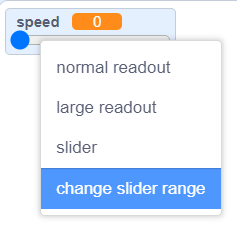
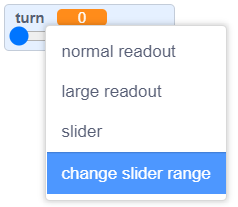
Changed examples to use turn instead of speed

Changed region(s): [[0.0, 0.0, 1.0, 0.9855], [0.2363, 0.4058, 0.6793, 0.5217], [0.2363, 0.5797, 0.443, 0.6957]]

diff --git a/en/step_6.md b/en/step_6.md
@@ -38,7 +38,7 @@ Go to the `Variables`{:class="block3variables"} blocks and click on 'Make a Vari
 
 Name the variable to match its use, for example `turn`{:class="block3variables"}. Generally, you will keep the 'For all sprites' box checked, this means you will be able to use the variable in the code for any of your sprites or the Stage.
 
-![Speed variable settings](images/speed-variable.png)
+![Turn variable settings](images/turn-variable.png)
 
 Click 'OK' to make the new variable. You will have new variable blocks available including a `turn`{:class="block3variables"} block (or whatever you named your variable) that you can use as an input to other blocks. 
 
@@ -68,7 +68,7 @@ Right-click or tap and hold on your variable on the Stage.
 
 Select 'slider' from the menu. 
 
-![Speed slider](images/variable-slider.png)
+![Turn slider](images/variable-slider.png)
 
 **Tip:** You can double click or tap on a variable on the Stage to switch between normal, large and slider. 
 
@@ -79,9 +79,9 @@ Set the range by specifying a minimum and maximum value.
 
 A minimum of 1 and a maximum of 10 work fairly well for how quickly a sprite spins.
 
-![Slider range 1 to 10](images/range-values.png)
+![Slider range 1 to 10](images/slider-values.png)
 
-The value range that is right for your variable depends on what you are using it for. Sometimes you will need to experiment a little to get it right but remember that you can chnage it at any time.
+The value range that is right for your variable depends on what you are using it for. Sometimes you will need to experiment a little to get it right but remember that you can change it at any time.
 
 **Tip:** Variables on the Stage always appear in a layer above all of the sprites. If you have a moving sprite it will go under any variables on the Stage. 
 
